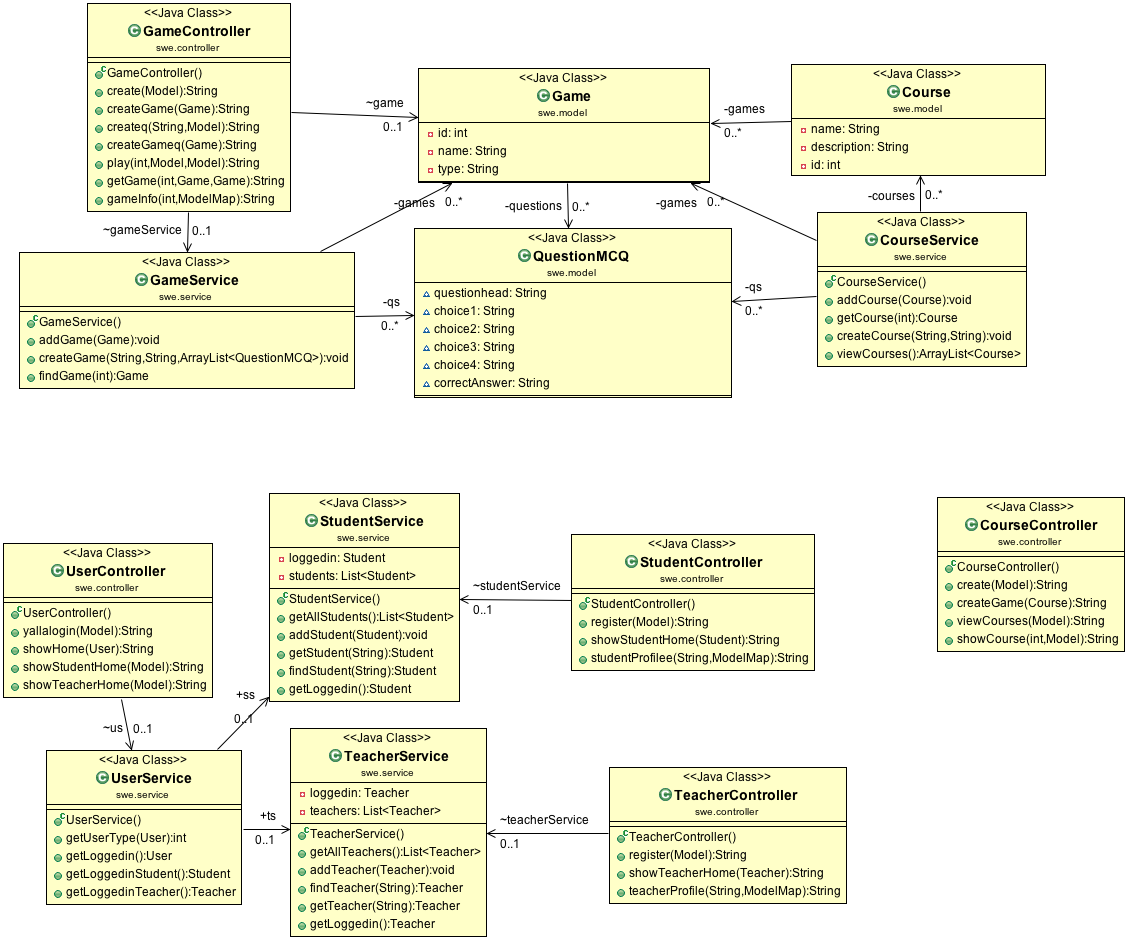
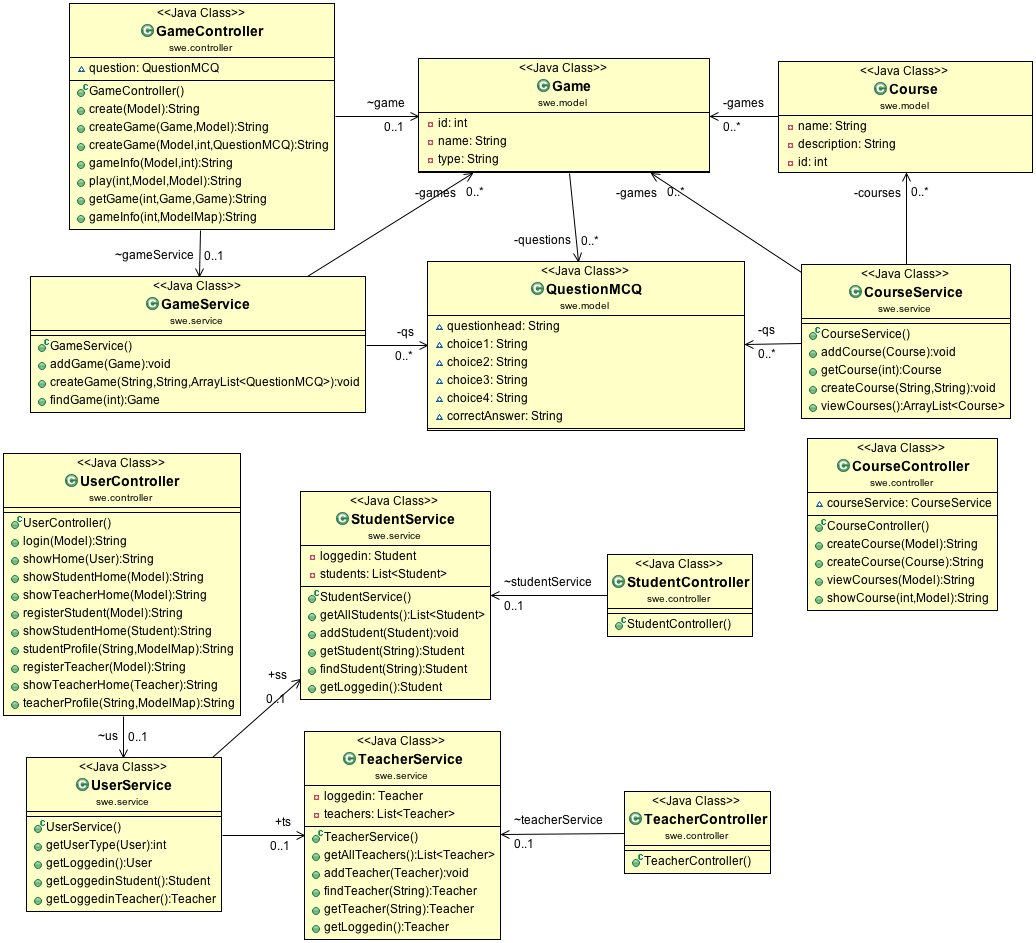
for salma tani

diff --git a/src/main/java/swe/controller/CourseController.java b/src/main/java/swe/controller/CourseController.java
@@ -18,21 +18,21 @@ import swe.service.CourseService;
 public class CourseController {
 	
 //	  @Autowired
-//    private CourseService courseservice;
+	CourseService courseService = new CourseService();
 //    @Autowired
 //    private GameService gameService;
 	
 	// create course stuff
 	@RequestMapping(value = "createCourseForm", method = RequestMethod.GET)
-	public String create (Model model) {
+	public String createCourse (Model model) {
 		Course course = new Course();
 		model.addAttribute("course", course);
 		return "/createCourseForm";
 	}
 		
 	@RequestMapping(value = "createCourseForm", method = RequestMethod.POST)
-	public String createGame (@ModelAttribute(value = "course") Course c) {		
-		CourseService courseService = new CourseService();
+	public String createCourse (@ModelAttribute(value = "course") Course c) {		
+		
 		courseService.createCourse(c.getName(), c.getDescription()); 
 		return "/courseInfo";
 	}
@@ -40,15 +40,13 @@ public class CourseController {
 	// view courses
 	@RequestMapping(value = "viewCourses", method = RequestMethod.GET)
 	public String viewCourses (Model model) {
-		CourseService courseService = new CourseService();
 		ArrayList<Course> courses = courseService.viewCourses();
 		model.addAttribute("courses", courses);
 		return "/viewCourses";
 	}
 	
 	@RequestMapping(value = "course/{id}")
-    public String showCourse(@PathVariable int id, Model model) {
-		CourseService courseService = new CourseService();
+    public String showCourse (@PathVariable int id, Model model) {
 		Course course = courseService.getCourse(id);
         ArrayList<Game> games = course.getGames();
         model.addAttribute("course", course);

diff --git a/src/main/java/swe/controller/GameController.java b/src/main/java/swe/controller/GameController.java
@@ -31,7 +31,7 @@ public class GameController {
 	}
 	
 	@RequestMapping(value = "createGameForm", method = RequestMethod.POST)
-	public String createPost (@ModelAttribute(value = "game") Game game, Model model) {
+	public String createGame (@ModelAttribute(value = "game") Game game, Model model) {
 	//	model.addAttribute("game", game);
 		System.out.println(game.getName() + " hmm");
 		gameService.addGame(game);
@@ -39,7 +39,7 @@ public class GameController {
 	}
 	
 	@RequestMapping(value = "newQuestion/{id}", method = RequestMethod.GET)
-	public String createq(Model model, @PathVariable int id, @ModelAttribute(value = "question") QuestionMCQ question) {
+	public String createGame (Model model, @PathVariable int id, @ModelAttribute(value = "question") QuestionMCQ question) {
 		
 		//QuestionMCQ question = new QuestionMCQ();
 		game = gameService.findGame(id);
@@ -62,7 +62,7 @@ public class GameController {
 	}
 	
 	@RequestMapping(value = "gameInf/{id}")
-	public String createGameq (Model model, @PathVariable int id) {		
+	public String gameInfo (Model model, @PathVariable int id) {		
 		game = gameService.findGame(id);
 		model.addAttribute("game", game);
 		System.out.println(game.getName());
@@ -71,7 +71,6 @@ public class GameController {
 		return "/gameInfo";
 	}
 		
-
 	
 	// play game stuff
 	@RequestMapping(value = "playGame/{id}", method = RequestMethod.GET)

diff --git a/src/main/java/swe/controller/UserController.java b/src/main/java/swe/controller/UserController.java
@@ -20,7 +20,7 @@ public class UserController {
 	UserService us = new UserService();
 	
 	@RequestMapping(value = "login", method = RequestMethod.GET)
-	public String yallalogin (Model model) {
+	public String login (Model model) {
 		System.out.println("hello");
 		User user = new User();
 		model.addAttribute("user", user);
@@ -88,7 +88,7 @@ public class UserController {
 	}
 
 	@RequestMapping(value = "studentProfile/{username}" , method = RequestMethod.GET)
-	public String studentProfilee (@PathVariable String username, ModelMap modelMap ) {		
+	public String studentProfile (@PathVariable String username, ModelMap modelMap ) {		
 		Student student = us.ss.getStudent(username);
 		modelMap.put("student", student);
 		
